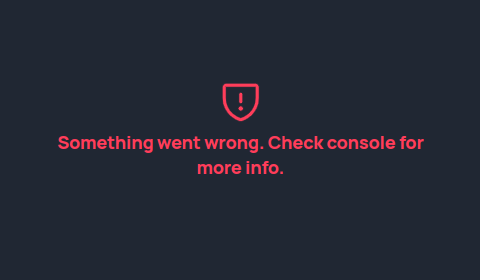
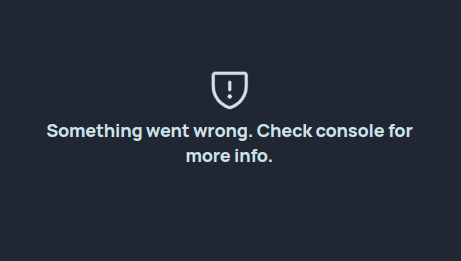
removed error class

Changed region(s): [[0.0911, 0.4598, 0.9111, 0.6437], [0.4555, 0.2452, 0.5466, 0.4291]]

diff --git a/index.css b/index.css
@@ -86,10 +86,6 @@ button:not(:disabled).pointer-over {
   transform: translateY(-50%);
 }
 
-.error {
-  color: var(--neon-red, #ff3d5a);
-}
-
 .loading {
   visibility: hidden;
   animation: appear 0s 1s forwards, spin 1s 1s infinite linear;
